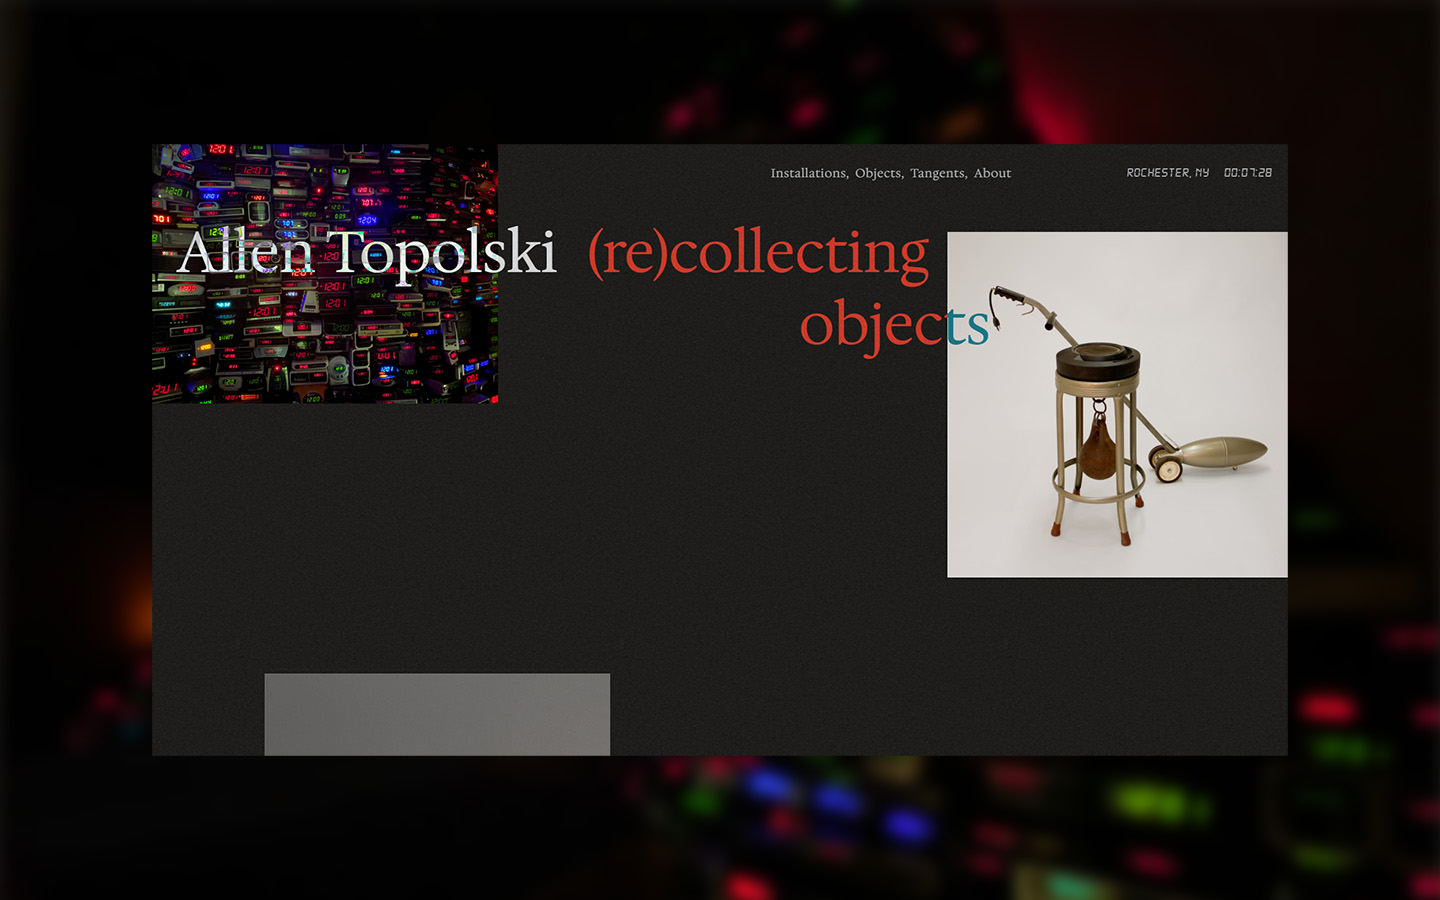
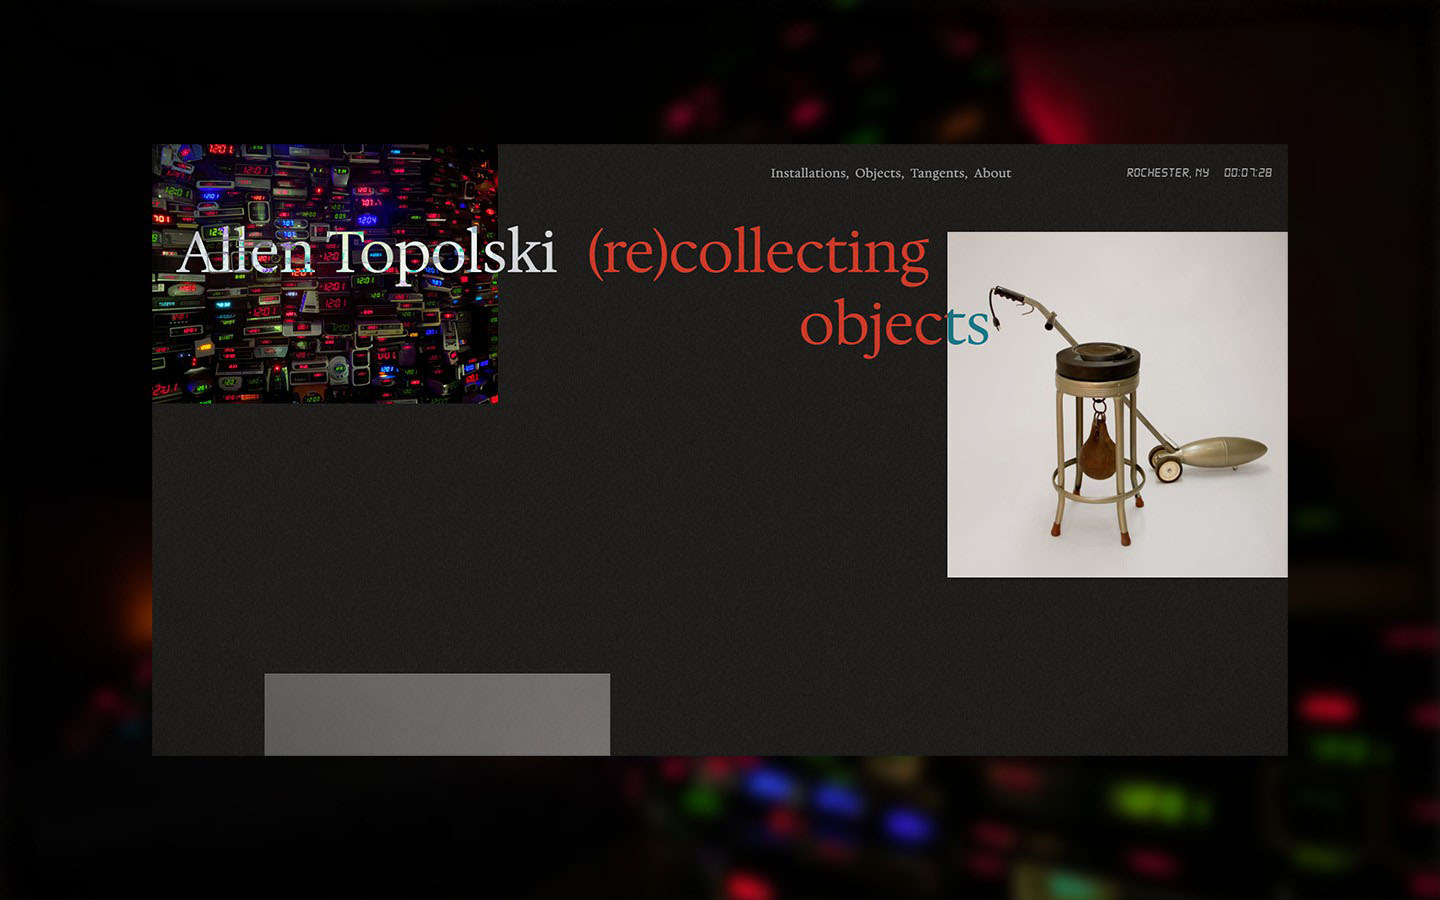
- UI modification for mobile devices - Updated atopol project thumb

diff --git a/src/components/RandomImageHalftone.jsx b/src/components/RandomImageHalftone.jsx
@@ -107,6 +107,7 @@ const RandomImageHalftone = () => {
     // const [generatedShades, setGeneratedShades] = useState(generateShades('#2DB5B4'));
     const [invertBrightness, setInvertBrightness] = useState(false);
     const [settingsExpanded, setSettingsExpanded] = useState(false);
+    const [detailsExpanded, setDetailsExpanded] = useState(false);
 
     // Update generated shades when base color changes
     // useEffect(() => {
@@ -241,6 +242,15 @@ const RandomImageHalftone = () => {
                 )}
             </div>
 
+            {/* Counter */}
+            <div
+                className="xl:flex xl:absolute top-0 right-[calc(50%+23.5vw)] xl:h-full xl:w-[calc(50%-23.5vw)]
+                    flex-col justify-center items-center xl:pr-3.5 4xl:pr-8 7xl:pr-10
+                    font-neueHaasGrotesk font-bold text-[2.5vh] lg:text-[3vw] xl:text-[2vw]">
+                <p>/{count.toString().padStart(2, '0')}</p>
+                {error && <p className="text-[1vw]">{error}</p>}
+            </div>
+
             {/*Screen width: 100vw*/}
             {/*Image width: 47vw (centered)*/}
             {/*Image position: starts at calc(50% - 23.5vw), ends at calc(50% + 23.5vw)*/}
@@ -249,7 +259,64 @@ const RandomImageHalftone = () => {
                 className="flex xl:absolute top-0 left-[calc(50%+23.5vw)] h-full w-full xl:w-[calc(50%-23.5vw)]
                     flex-col justify-center items-center xl:px-[2vw]
                     font-roboto font-light uppercase tracking-wide text-[1.25vh] lg:text-[1.5vw] xl:text-[1vw] leading-relaxed">
-                <p>This interactive visualization explores Wikipedia&#39;s vast collection of 7,017,561 English articles
+
+                {/* Mobile Details Dropdown (only visible on screens smaller than xl) */}
+                <div className="xl:hidden w-full">
+                    <button
+                        onClick={() => setDetailsExpanded(!detailsExpanded)}
+                        className="flex items-center gap-2 font-neueHaasGrotesk font-bold lowercase text-[1.25vh] lg:text-[1.5vw] hover:opacity-80 transition-opacity"
+                    >
+                        <span>Details</span>
+                        <svg
+                            width="12"
+                            height="8"
+                            viewBox="0 0 12 8"
+                            fill="none"
+                            className={`transition-transform duration-300 ${detailsExpanded ? 'rotate-180' : 'rotate-0'}`}
+                        >
+                            <path
+                                d="M1 1L6 6L11 1"
+                                stroke="currentColor"
+                                strokeWidth="1.5"
+                                strokeLinecap="round"
+                                strokeLinejoin="round"
+                            />
+                        </svg>
+                    </button>
+
+                    {/* Collapsible Details Panel */}
+                    <div
+                        className={`overflow-hidden transition-all duration-300 ${detailsExpanded ? 'max-h-96 opacity-100' : 'max-h-0 opacity-0'}`}>
+                        <p>This interactive visualization explores Wikipedia&#39;s vast collection of 7,017,561 English
+                            articles
+                            (as of July 3, 2025)
+                            <a
+                                href={"https://en.wikipedia.org/wiki/Wikipedia:Size_of_Wikipedia"}
+                                target="_blank"
+                                rel="noopener noreferrer"
+                                className="text-[0.75vh] lg:text-[1vw] xl:text-[0.5vw] hover:opacity-80 transition-opacity"
+                            >
+                                <span> (source↗)</span>
+                            </a>
+                            . It retrieves a random Wikipedia article and displays its first image
+                            <a
+                                href={"https://en.wikipedia.org/api/rest_v1/"}
+                                target="_blank"
+                                rel="noopener noreferrer"
+                                className="text-[0.75vh] lg:text-[1vw] xl:text-[0.5vw] hover:opacity-80 transition-opacity"
+                            >
+                                <span> (source↗)</span>
+                            </a>
+                            . Click the image to load a new random article.
+                            A click counter keeps a global count of the total number of images generated.
+                            Click on the image caption to navigate to the corresponding Wikipedia page.
+                        </p>
+                    </div>
+                </div>
+
+                {/* Desktop Details (always visible on xl and larger screens) */}
+                <p className="hidden xl:block">This interactive visualization explores Wikipedia&#39;s vast collection
+                    of 7,017,561 English articles
                     (as of July 3, 2025)
                     <a
                         href={"https://en.wikipedia.org/wiki/Wikipedia:Size_of_Wikipedia"}
@@ -297,7 +364,8 @@ const RandomImageHalftone = () => {
                     </button>
 
                     {/* Collapsible Settings Panel */}
-                    <div className={`w-1/2 xl:w-full overflow-hidden transition-all duration-300 ${settingsExpanded ? 'opacity-100' : 'max-h-0 opacity-0'}`}>
+                    <div
+                        className={`w-1/2 xl:w-full overflow-hidden transition-all duration-300 ${settingsExpanded ? 'opacity-100' : 'max-h-0 opacity-0'}`}>
                         {/* Slider UI */}
                         <div className="mt-[2vh] w-full">
                             <label className="block mb-[1vh] text-[1vh] lg:text-[1.25vw] xl:text-[0.85vw]">
@@ -345,15 +413,15 @@ const RandomImageHalftone = () => {
                             {/* Quick Color Presets */}
                             <div className="flex flex-wrap gap-[1vh] xl:gap-[0.5vw] mt-[1.5vh]">
                                 {[
-                                    { name: 'Teal', color: '#2DB5B4' },
-                                    { name: 'Red', color: '#fc0834' },
-                                    { name: 'Blue', color: '#4a21ff' },
-                                    { name: 'Green', color: '#33ff57' },
-                                    { name: 'Light-Blue', color: '#33c4ff' },
-                                    { name: 'Purple', color: '#a633ff' },
-                                    { name: 'Pink', color: '#ff33a1' },
-                                    { name: 'Orange', color: '#ff5733' },
-                                    { name: 'Yellow', color: '#ffef73' },
+                                    {name: 'Teal', color: '#2DB5B4'},
+                                    {name: 'Red', color: '#fc0834'},
+                                    {name: 'Blue', color: '#4a21ff'},
+                                    {name: 'Green', color: '#33ff57'},
+                                    {name: 'Light-Blue', color: '#33c4ff'},
+                                    {name: 'Purple', color: '#a633ff'},
+                                    {name: 'Pink', color: '#ff33a1'},
+                                    {name: 'Orange', color: '#ff5733'},
+                                    {name: 'Yellow', color: '#ffef73'},
                                 ].map((preset) => (
                                     <button
                                         key={preset.name}
@@ -363,7 +431,7 @@ const RandomImageHalftone = () => {
                                                 ? 'border-customWhite border-opacity-80 scale-110'
                                                 : 'border-customWhite border-opacity-30'
                                         }`}
-                                        style={{ backgroundColor: preset.color }}
+                                        style={{backgroundColor: preset.color}}
                                         title={`${preset.name} (${preset.color})`}
                                     />
                                 ))}
@@ -401,15 +469,6 @@ const RandomImageHalftone = () => {
                     </div>
                     {/* Collapsible Settings Panel */}
                 </div>
-            </div>
-
-            {/* Counter */}
-            <div
-                className="xl:flex xl:absolute top-0 right-[calc(50%+23.5vw)] xl:h-full xl:w-[calc(50%-23.5vw)]
-                    flex-col justify-center items-center xl:pr-3.5 4xl:pr-8 7xl:pr-10
-                    font-neueHaasGrotesk font-bold text-[2.5vh] lg:text-[3vw] xl:text-[2vw]">
-                <p>/{count.toString().padStart(2, '0')}</p>
-                {error && <p className="text-[1vw]">{error}</p>}
             </div>
 
         </div>
